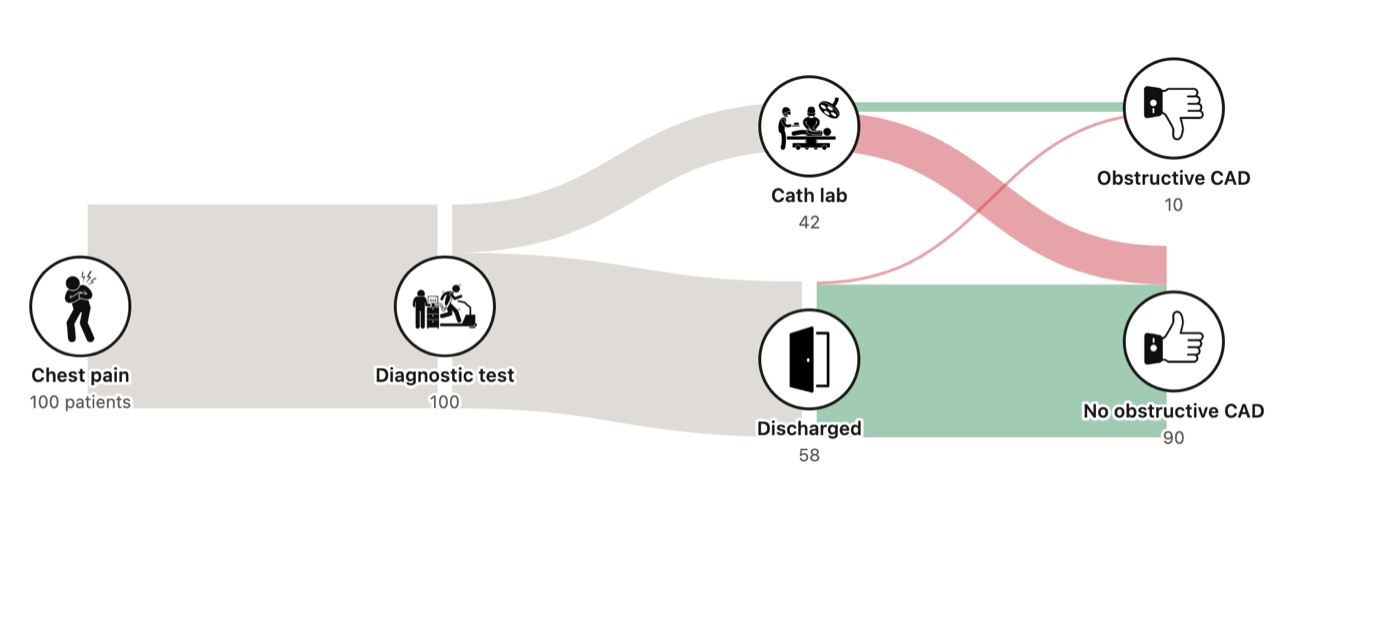
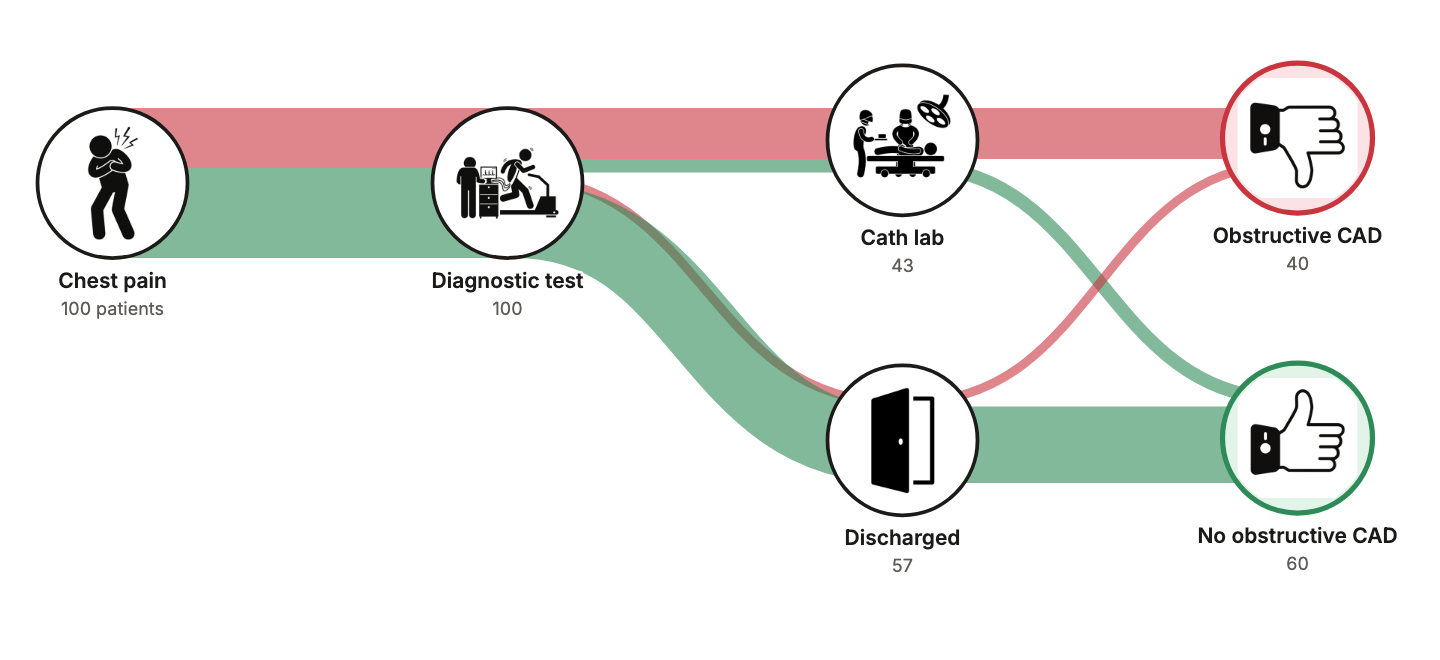
Fold About's recognition list into the timeline; refresh project cards
- news.html: add Oracle for Startups (Aug 2021), MOD 2017 Best Paper
  Award, IWBDA 2017 local chair, and the 2016 Zeisberg nomination; name
  CMU's Swartz Center on the NSF I-Corps line; add the hair aside to the
  Pittsburgh Tomorrow entry. The 2021 Oracle post has been taken down, so
  that entry is unlinked.
- about.html: remove the Recognition & press list (every item now lives
  on the timeline) and update the meta description and README.
- projects.html: new diagnostic-accuracy card image rendered from the
  recolored simulator, with updated text, alt text, and label.
- Describe the macrophage model as a proof-of-concept prototype from the
  thesis on the Projects card, its own page, About, and home.

diff --git a/news.html b/news.html
@@ -77,6 +77,7 @@
           <span class="year">Oct 2025</span>
           <h3>Pittsburgh Tomorrow "Pioneers" interview</h3>
           <p>Utkars and I sat down with Pittsburgh Tomorrow for their <a href="https://www.youtube.com/watch?v=z4FrOepy-50" rel="noopener">Pioneers video series</a> to share HEARTio's journey from a student idea to ECGio.</p>
+          <p>...yes ...yes, I know... the hair was a choice. I was trying something out and it didn't work but you never know until you try. I just wish I had realized sooner.</p>
           <figure class="photo"><img src="img/news/pittsburgh-tomorrow-2025.jpg" alt="Episode graphic for Pittsburgh Tomorrow Pioneers episode 4 with Adam Butchy and Utkars Jain" loading="lazy" width="1200" height="675"><figcaption>Image: Pittsburgh Tomorrow.</figcaption></figure>
         </li>
         <li>
@@ -201,6 +202,11 @@
           <figure class="photo"><img src="img/news/cjc.jpg" alt="Title page of the Canadian Journal of Cardiology article" loading="lazy" width="1200" height="669"></figure>
         </li>
         <li>
+          <span class="year">Aug 2021</span>
+          <h3>Oracle for Startups profile</h3>
+          <p>Oracle for Startups featured HEARTio on its blog in "How do you mend a broken heart? HEARTio founders use AI for cardiac diagnosis." Oracle has since taken the post down.</p>
+        </li>
+        <li>
           <span class="year">Jul 2021</span>
           <h3>Clinical partnership with Allegheny Health Network</h3>
           <p>We announced a partnership with Allegheny Health Network to run a study of at least 20,000 patients further validating ECGio's ability to determine the presence and severity of coronary artery disease. <a href="https://web.archive.org/web/20230410153900/https://www.heartio.ai/s/HEARTio-Press-Release-AHN-Partnership.pdf" rel="noopener">Press release</a>.</p>
@@ -291,7 +297,7 @@
         <li>
           <span class="year">Apr 2018</span>
           <h3>On the road</h3>
-          <p>We took Heart I/O on a demo circuit: the CMU Summit New Venture Competition, CMU's Project Olympus Show &amp; Tell, and the Medical Capital Innovation Competition in Cleveland (<a href="http://web.archive.org/web/20190819102314/https://www.heartiolab.com/blog/2018/4/7/heart-io-plans-to-demo-medical-algorithms" rel="noopener">company blog</a>). That spring we were also finalists at CMU's McGinnis Venture Competition and the Randall Family Big Idea Competition, joined the NSF I-Corps Site program, and were accepted into NVIDIA's Inception program and the Oracle Scaleup Ecosystem.</p>
+          <p>We took Heart I/O on a demo circuit: the CMU Summit New Venture Competition, CMU's Project Olympus Show &amp; Tell, and the Medical Capital Innovation Competition in Cleveland (<a href="http://web.archive.org/web/20190819102314/https://www.heartiolab.com/blog/2018/4/7/heart-io-plans-to-demo-medical-algorithms" rel="noopener">company blog</a>). That spring we were also finalists at CMU's McGinnis Venture Competition and the Randall Family Big Idea Competition, joined the NSF I-Corps Site program at Carnegie Mellon's Swartz Center for Entrepreneurship, and were accepted into NVIDIA's Inception program and the Oracle Scaleup Ecosystem.</p>
         </li>
         <li>
           <span class="year">Jan 2018</span>
@@ -305,6 +311,16 @@
           <figure class="photo"><img src="img/news/conference.jpg" alt="The HEARTio team standing beside their research poster at a conference" loading="lazy" width="1200" height="900"></figure>
         </li>
         <li>
+          <span class="year">Sep 2017</span>
+          <h3>MOD 2017 Best Paper Award</h3>
+          <p>I presented <a href="https://doi.org/10.1007/978-3-319-72926-8_1" rel="noopener">"Recipes for Translating Big Data Machine Reading to Executable Cellular Signaling Models"</a>, written with Khaled Sayed, Cheryl Telmer, and Natasa Miskov-Zivanov, at the International Conference on Machine Learning, Optimization, and Big Data in Tuscany, where it won the <a href="https://lod2021.icas.cc/best-paper-award/" rel="noopener">Best Paper Award</a>. <a href="https://www.engineering.pitt.edu/news/2017/pitt-computer-engineers-win-best-paper-award-at-international-big-data-conference/" rel="noopener">Pitt news</a>.</p>
+        </li>
+        <li>
+          <span class="year">Aug 2017</span>
+          <h3>Local chair, IWBDA 2017</h3>
+          <p>I was one of three local chairs for the <a href="https://www.iwbdaconf.org/2017/" rel="noopener">9th International Workshop on Bio-Design Automation (IWBDA 2017)</a>, hosted by the University of Pittsburgh August 8–11, with my advisor Natasa Miskov-Zivanov as general chair.</p>
+        </li>
+        <li>
           <span class="year">Oct 2016</span>
           <h3>First graduate-school poster</h3>
           <p>I presented <a href="https://www.nmzlab.pitt.edu/publication" rel="noopener">"Explaining the Cancer Microenvironment via Automated Literature Exploration"</a> at the Cold Spring Harbor Laboratory Biological Data Science meeting, two months into my Ph.D.</p>
@@ -314,6 +330,11 @@
           <span class="year">Apr 2016</span>
           <h3>Villanova Dean's Award</h3>
           <p>I received the Villanova College of Engineering <a href="https://web.archive.org/web/20160319004537/http://www1.villanova.edu/villanova/engineering/newsevents/collegeevents/awardsdinner/2016winners.html" rel="noopener">Dean's Award for Academic Excellence and Meritorious Service</a>, one of eleven graduating seniors honored in the combined category.</p>
+        </li>
+        <li>
+          <span class="year">2016</span>
+          <h3>Zeisberg Design Award nominee</h3>
+          <p>"Design and Optimization of a Cumene Production Process," the plant design report I wrote at Villanova with Joseph Brouillard and Brandon Wesley, was nominated for the <a href="https://aiche-philadelphia.org/programs/awards/zeisberg-design-award" rel="noopener">AIChE Zeisberg Design Award</a>, which the Delaware Valley Section of the American Institute of Chemical Engineers gives to the best design reports from the region's chemical engineering departments.</p>
         </li>
         <li>
           <span class="year">Sep 2014</span>

diff --git a/about.html b/about.html
@@ -4,7 +4,7 @@
   <meta charset="UTF-8">
   <meta name="viewport" content="width=device-width, initial-scale=1.0">
   <title>About — Adam A. Butchy</title>
-  <meta name="description" content="About Adam Butchy: cofounder and Chief Scientific Officer of HEARTio, Ph.D. in Bioengineering from the University of Pittsburgh, and the recognition and press along the way.">
+  <meta name="description" content="About Adam Butchy: cofounder and Chief Scientific Officer of HEARTio, with a Ph.D. in Bioengineering from the University of Pittsburgh.">
   <link rel="preconnect" href="https://fonts.googleapis.com">
   <link rel="preconnect" href="https://fonts.gstatic.com" crossorigin>
   <link href="https://fonts.googleapis.com/css2?family=Inter:wght@400;500;600;700&display=swap" rel="stylesheet">
@@ -54,22 +54,7 @@
 
         <h2>Research</h2>
         <p>I earned my Ph.D. in 2024 in the <a href="https://www.nmzlab.pitt.edu/" rel="noopener">MeLoDy Lab</a>, advised by Dr. Natasa Miskov-Zivanov. My dissertation, <a href="https://d-scholarship.pitt.edu/44135/" rel="noopener"><em>Automated and Manual Assembly of Computational Models for Biological Systems: Applications to Macrophage Activation and CAR-T Cells</em></a>, followed two threads: accurately simulating how macrophages respond to specific stimuli, and automating the assembly and extension of biological models from published literature. The second thread became my first-author paper in <a href="https://doi.org/10.1109/TCBBIO.2024.3507781" rel="noopener"><em>IEEE/ACM Transactions on Computational Biology and Bioinformatics</em></a>. The same modeling work produced the mathematical model behind a <a href="https://doi.org/10.1038/s41467-023-37863-5" rel="noopener"><em>Nature Communications</em> paper</a> on SNAP-CAR receptors with Jason Lohmueller's lab.</p>
-        <p>The macrophage signaling network from that work is <a href="projects/macrophage-model.html">explorable on this site</a>. A paper I presented and co-authored on translating machine-read literature into executable cell signaling models won the MOD 2017 Best Paper Award. My publications from both the lab and HEARTio are on <a href="https://scholar.google.com/citations?user=iLmtbRYAAAAJ" rel="noopener">Google Scholar</a>.</p>
-
-        <h2>Recognition &amp; press</h2>
-        <ul class="dated">
-          <li><time>2024</time><span><a href="https://www.forbes.com/profile/heartio/" rel="noopener">Forbes 30 Under 30, Healthcare</a>, with my HEARTio cofounders</span></li>
-          <li><time>Apr 2022</time><span>Student Innovators of the Year, University of Pittsburgh Celebration of Innovation</span></li>
-          <li><time>Mar 2022</time><span><a href="https://www.bizjournals.com/pittsburgh/news/2022/03/11/30-under-30-adam-butchy-utkars-jain.html" rel="noopener">Pittsburgh Business Times 30 Under 30: "Meet Adam Butchy and Utkars Jain, HEARTio"</a></span></li>
-          <li><time>Aug 2021</time><span><a href="https://blogs.oracle.com/startup/post/startup-uses-ai-for-cardiac-diagnosis" rel="noopener">Oracle for Startups: "How do you mend a broken heart? HEARTio founders use AI for cardiac diagnosis"</a></span></li>
-          <li><time>Dec 2020</time><span><a href="https://www.bizjournals.com/pittsburgh/news/2020/12/15/pittsburgh-healthcare-startup-wins-ideathon.html" rel="noopener">Pittsburgh Business Times: "Pittsburgh health care startup wins Ideathon pitch competition"</a></span></li>
-          <li><time>Nov 2020</time><span><a href="https://www.youtube.com/watch?v=kHuenGhlTmg" rel="noopener">HEARTio achieves FDA Breakthrough Device Designation</a> (video)</span></li>
-          <li><time>2018</time><span>NSF I-Corps Site Team, Carnegie Mellon Swartz Center for Entrepreneurship</span></li>
-          <li><time>Aug 2017</time><span>Local chair, <a href="https://www.iwbdaconf.org/2017/" rel="noopener">International Workshop on Bio-Design Automation (IWBDA) 2017</a></span></li>
-          <li><time>Sep 2017</time><span><a href="https://lod2021.icas.cc/best-paper-award/" rel="noopener">MOD 2017 Best Paper Award</a> for <a href="https://doi.org/10.1007/978-3-319-72926-8_1" rel="noopener">"Recipes for Translating Big Data Machine Reading to Executable Cellular Signaling Models"</a> (<a href="https://www.engineering.pitt.edu/news/2017/pitt-computer-engineers-win-best-paper-award-at-international-big-data-conference/" rel="noopener">Pitt news</a>)</span></li>
-          <li><time>Apr 2016</time><span>Villanova College of Engineering <a href="https://web.archive.org/web/20160319004537/http://www1.villanova.edu/villanova/engineering/newsevents/collegeevents/awardsdinner/2016winners.html" rel="noopener">Dean's Award for Academic Excellence and Meritorious Service</a></span></li>
-          <li><time>2016</time><span>Nominated for the <a href="https://aiche-philadelphia.org/programs/awards/zeisberg-design-award" rel="noopener">AIChE Zeisberg Design Award</a> for "Design and Optimization of a Cumene Production Process"</span></li>
-        </ul>
+        <p>A prototype of the macrophage signaling network, which I built during my thesis as a proof of concept, is <a href="projects/macrophage-model.html">explorable on this site</a>. A paper I presented and co-authored on translating machine-read literature into executable cell signaling models won the MOD 2017 Best Paper Award. My publications from both the lab and HEARTio are on <a href="https://scholar.google.com/citations?user=iLmtbRYAAAAJ" rel="noopener">Google Scholar</a>.</p>
 
         <h2>Elsewhere</h2>
         <p>I am on <a href="https://www.linkedin.com/in/adambutchy/" rel="noopener">LinkedIn</a>, <a href="https://github.com/aabutchy" rel="noopener">GitHub</a>, <a href="https://scholar.google.com/citations?user=iLmtbRYAAAAJ" rel="noopener">Google Scholar</a>, and <a href="https://www.instagram.com/abutchy/" rel="noopener">Instagram</a>.<!-- X hidden for now; to restore, add back: <a href="https://x.com/Abutchy" rel="noopener">X</a> --></p>

diff --git a/projects.html b/projects.html
@@ -4,7 +4,7 @@
   <meta charset="UTF-8">
   <meta name="viewport" content="width=device-width, initial-scale=1.0">
   <title>Projects — Adam A. Butchy</title>
-  <meta name="description" content="Interactive explainers and models by Adam Butchy, including a confusion matrix primer and a macrophage signaling network from his dissertation.">
+  <meta name="description" content="Interactive explainers and models by Adam Butchy, including a diagnostic accuracy primer with a chest-pain triage simulator and a proof-of-concept macrophage signaling model from his dissertation.">
   <link rel="preconnect" href="https://fonts.googleapis.com">
   <link rel="preconnect" href="https://fonts.gstatic.com" crossorigin>
   <link href="https://fonts.googleapis.com/css2?family=Inter:wght@400;500;600;700&display=swap" rel="stylesheet">
@@ -38,16 +38,16 @@
 
       <div class="cards">
         <a class="card" href="projects/diagnostic-accuracy.html">
-          <img src="img/triage-simulator.png" alt="A Sankey diagram of chest-pain patients flowing through a diagnostic test to the cath lab or discharge" width="1400" height="627">
+          <img src="img/triage-simulator.png" alt="A Sankey diagram of 100 chest-pain patients flowing through a diagnostic test to the cath lab or discharge, with red ribbons for patients who have obstructive coronary artery disease and green for those who do not" width="1440" height="660">
           <h3>Diagnostic accuracy: from the confusion matrix to the cath lab</h3>
-          <p>A plain-language primer on sensitivity, specificity, and predictive value, followed by a simulator where three sliders decide who gets an unnecessary catheterization and who goes home with missed disease.</p>
-          <span class="meta">Explainer + interactive model</span>
+          <p>A plain-language primer on the confusion matrix, sensitivity, specificity, predictive value, and the prevalence that quietly moves them, followed by a chest-pain triage simulator. Every ribbon is colored by who truly has coronary disease, so you can watch the four cells of the matrix become catheterizations, safe discharges, and missed disease.</p>
+          <span class="meta">Explainer + interactive simulator</span>
         </a>
         <a class="card" href="projects/macrophage-model.html">
           <img src="img/macrophage-model.png" alt="A network diagram of genes, mRNA, and proteins in a macrophage signaling model" width="1400" height="653">
           <h3>Macrophage GM-CSF signaling model</h3>
-          <p>An interactive network from my dissertation. Pick a stimulus scenario and hover any molecule to see its regulators and its simulated response.</p>
-          <span class="meta">Interactive model · Ph.D. research</span>
+          <p>A prototype I developed during my thesis as a proof of concept: an interactive network of how a macrophage responds to GM-CSF and to M1 and M2 signals. Pick a stimulus scenario and hover any molecule to see its regulators and its simulated response.</p>
+          <span class="meta">Proof-of-concept prototype · Ph.D. research</span>
         </a>
       </div>
     </div>

diff --git a/projects/macrophage-model.html b/projects/macrophage-model.html
@@ -4,7 +4,7 @@
   <meta charset="UTF-8">
   <meta name="viewport" content="width=device-width, initial-scale=1.0">
   <title>Macrophage GM-CSF Model — Adam A. Butchy</title>
-  <meta name="description" content="An interactive network model of macrophage activation in response to GM-CSF, M1, and M2 stimuli, from Adam Butchy's Ph.D. dissertation.">
+  <meta name="description" content="A proof-of-concept prototype from Adam Butchy's Ph.D. thesis: an interactive network model of macrophage activation in response to GM-CSF, M1, and M2 stimuli.">
   <link rel="preconnect" href="https://fonts.googleapis.com">
   <link rel="preconnect" href="https://fonts.gstatic.com" crossorigin>
   <link href="https://fonts.googleapis.com/css2?family=Inter:wght@400;500;600;700&display=swap" rel="stylesheet">
@@ -36,7 +36,7 @@
     <div class="wrap">
       <p class="small"><a href="../projects.html">← All projects</a></p>
       <h1>Macrophage GM-CSF signaling model</h1>
-      <p class="section-lead">A simplified network of how a macrophage responds to GM-CSF and to classic M1 and M2 polarizing signals, from my Ph.D. work in the MeLoDy Lab at the University of Pittsburgh.</p>
+      <p class="section-lead">A prototype I developed during my Ph.D. thesis in the MeLoDy Lab at the University of Pittsburgh as a proof of concept: a simplified network of how a macrophage responds to GM-CSF and to classic M1 and M2 polarizing signals.</p>
 
       <div class="prose">
         <p>Macrophages are immune cells that change their behavior depending on the signals around them. Inflammatory "M1" signals push them toward attacking pathogens; "M2" signals push them toward repair and resolution. GM-CSF (granulocyte-macrophage colony-stimulating factor) is a growth factor that shapes both. This model captures the genes, transcripts, and proteins that carry those signals from the cell membrane into the nucleus and back out again.</p>

diff --git a/index.html b/index.html
@@ -69,7 +69,7 @@
           <a class="card" href="projects.html">
             <span class="num">03</span>
             <h3>Projects</h3>
-            <p>Interactive explainers built to make an idea click: a chest-pain triage simulator that shows what a test's accuracy means for real patients, and the macrophage signaling network from my dissertation.</p>
+            <p>Interactive explainers built to make an idea click: a chest-pain triage simulator that shows what a test's accuracy means for real patients, and a proof-of-concept macrophage signaling model I prototyped during my dissertation.</p>
           </a>
         </div>
       </section>

diff --git a/README.md b/README.md
@@ -9,7 +9,7 @@ Plain HTML and CSS, no build step. Push to `main` and GitHub Pages deploys it.
 
 ```
 index.html                     Home
-about.html                     Bio, education, recognition and press
+about.html                     Bio and education
 news.html                      HEARTio milestone timeline + publications and patents
 projects.html                  Project index
 projects/diagnostic-accuracy.html Confusion-matrix explainer (MathJax) + chest-pain triage Sankey simulator (d3-sankey)
